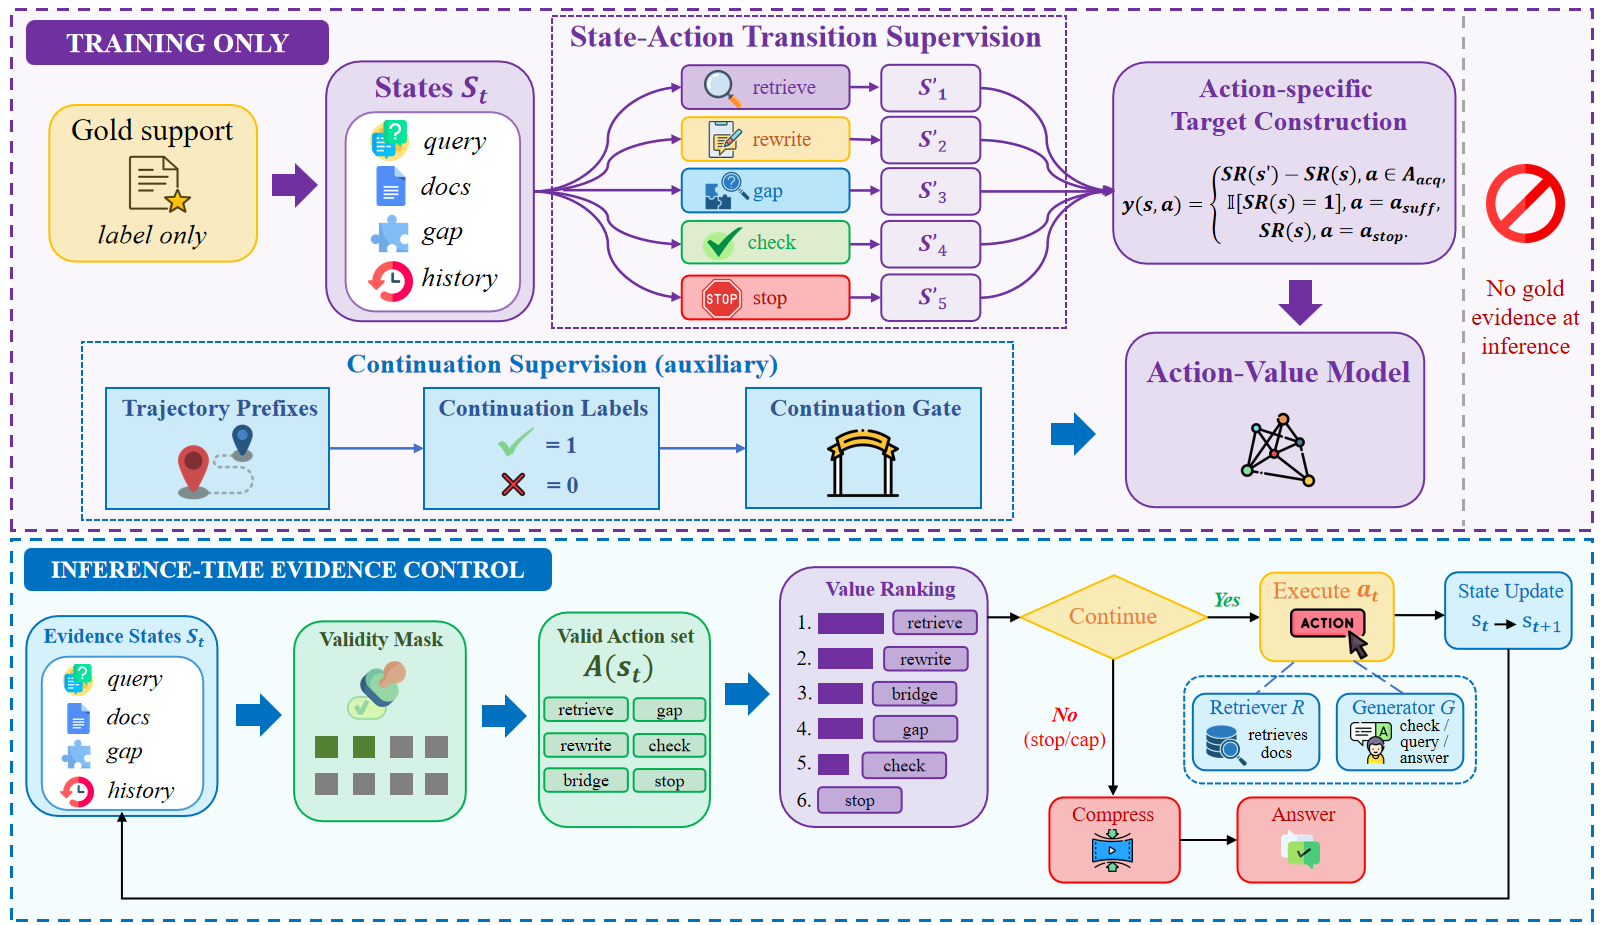
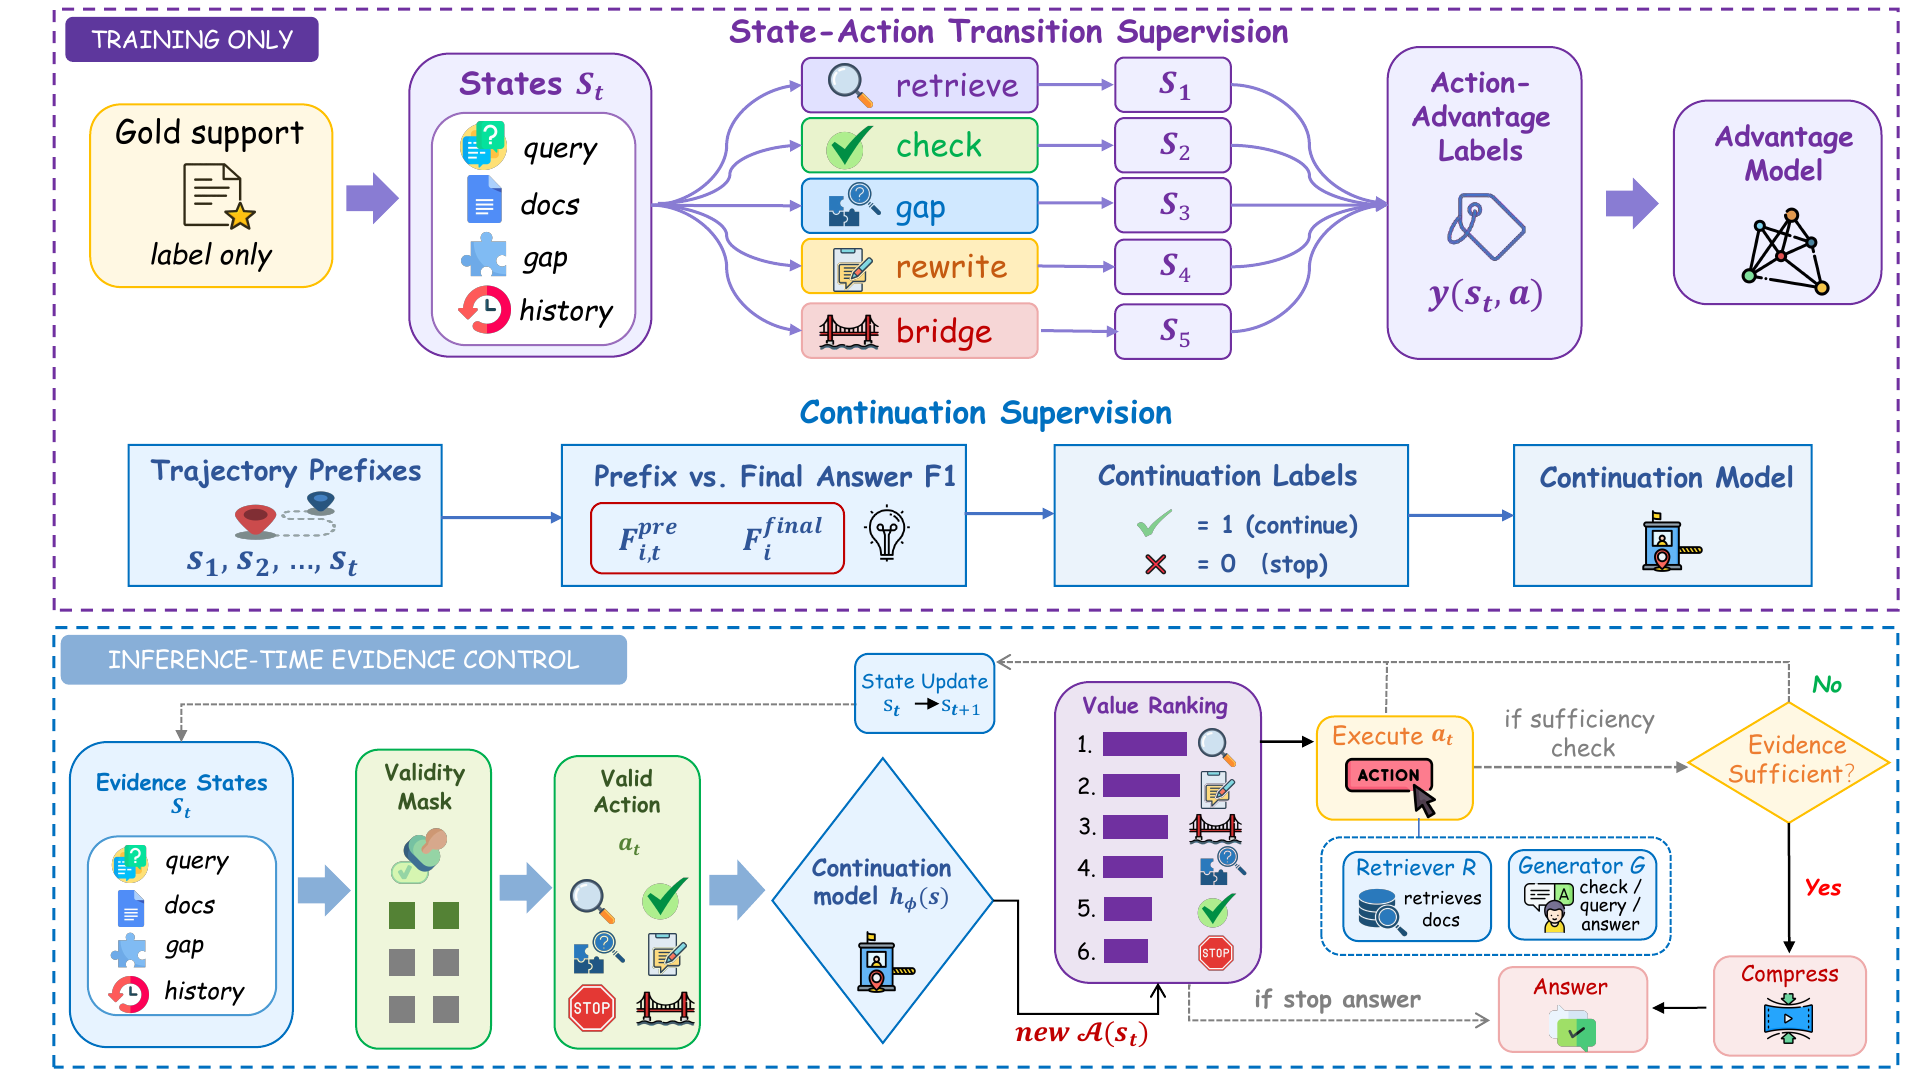
更新论文、引用与新闻页面

diff --git a/_pages/news.md b/_pages/news.md
@@ -2,6 +2,9 @@
 layout: page
 title: news
 permalink: /news/
+description: all news and updates in reverse chronological order.
+nav: true
+nav_order: 3
 ---
 
 {% include news.liquid %}

diff --git a/_news/announcement_emnlp2026_findings.md b/_news/announcement_emnlp2026_findings.md
@@ -1,0 +1,8 @@
+---
+layout: post
+date: 2026-08-20 09:00:00-0000
+inline: true
+related_posts: false
+---
+
+One paper has been accepted to Findings of EMNLP 2026 :confetti_ball: !

diff --git a/_pages/publications.md b/_pages/publications.md
@@ -9,6 +9,8 @@ nav_order: 2
 
 <!-- _pages/publications.md -->
 
+{% include equal_contribution_note.liquid %}
+
 <!-- Bibsearch Feature -->
 
 {% include bib_search.liquid %}

diff --git a/_pages/talks.md b/_pages/talks.md
@@ -4,7 +4,7 @@ permalink: /talks/
 title: talks
 description: selected talks, seminars, and conference presentations.
 nav: true
-nav_order: 3
+nav_order: 4
 ---
 
 <style>
